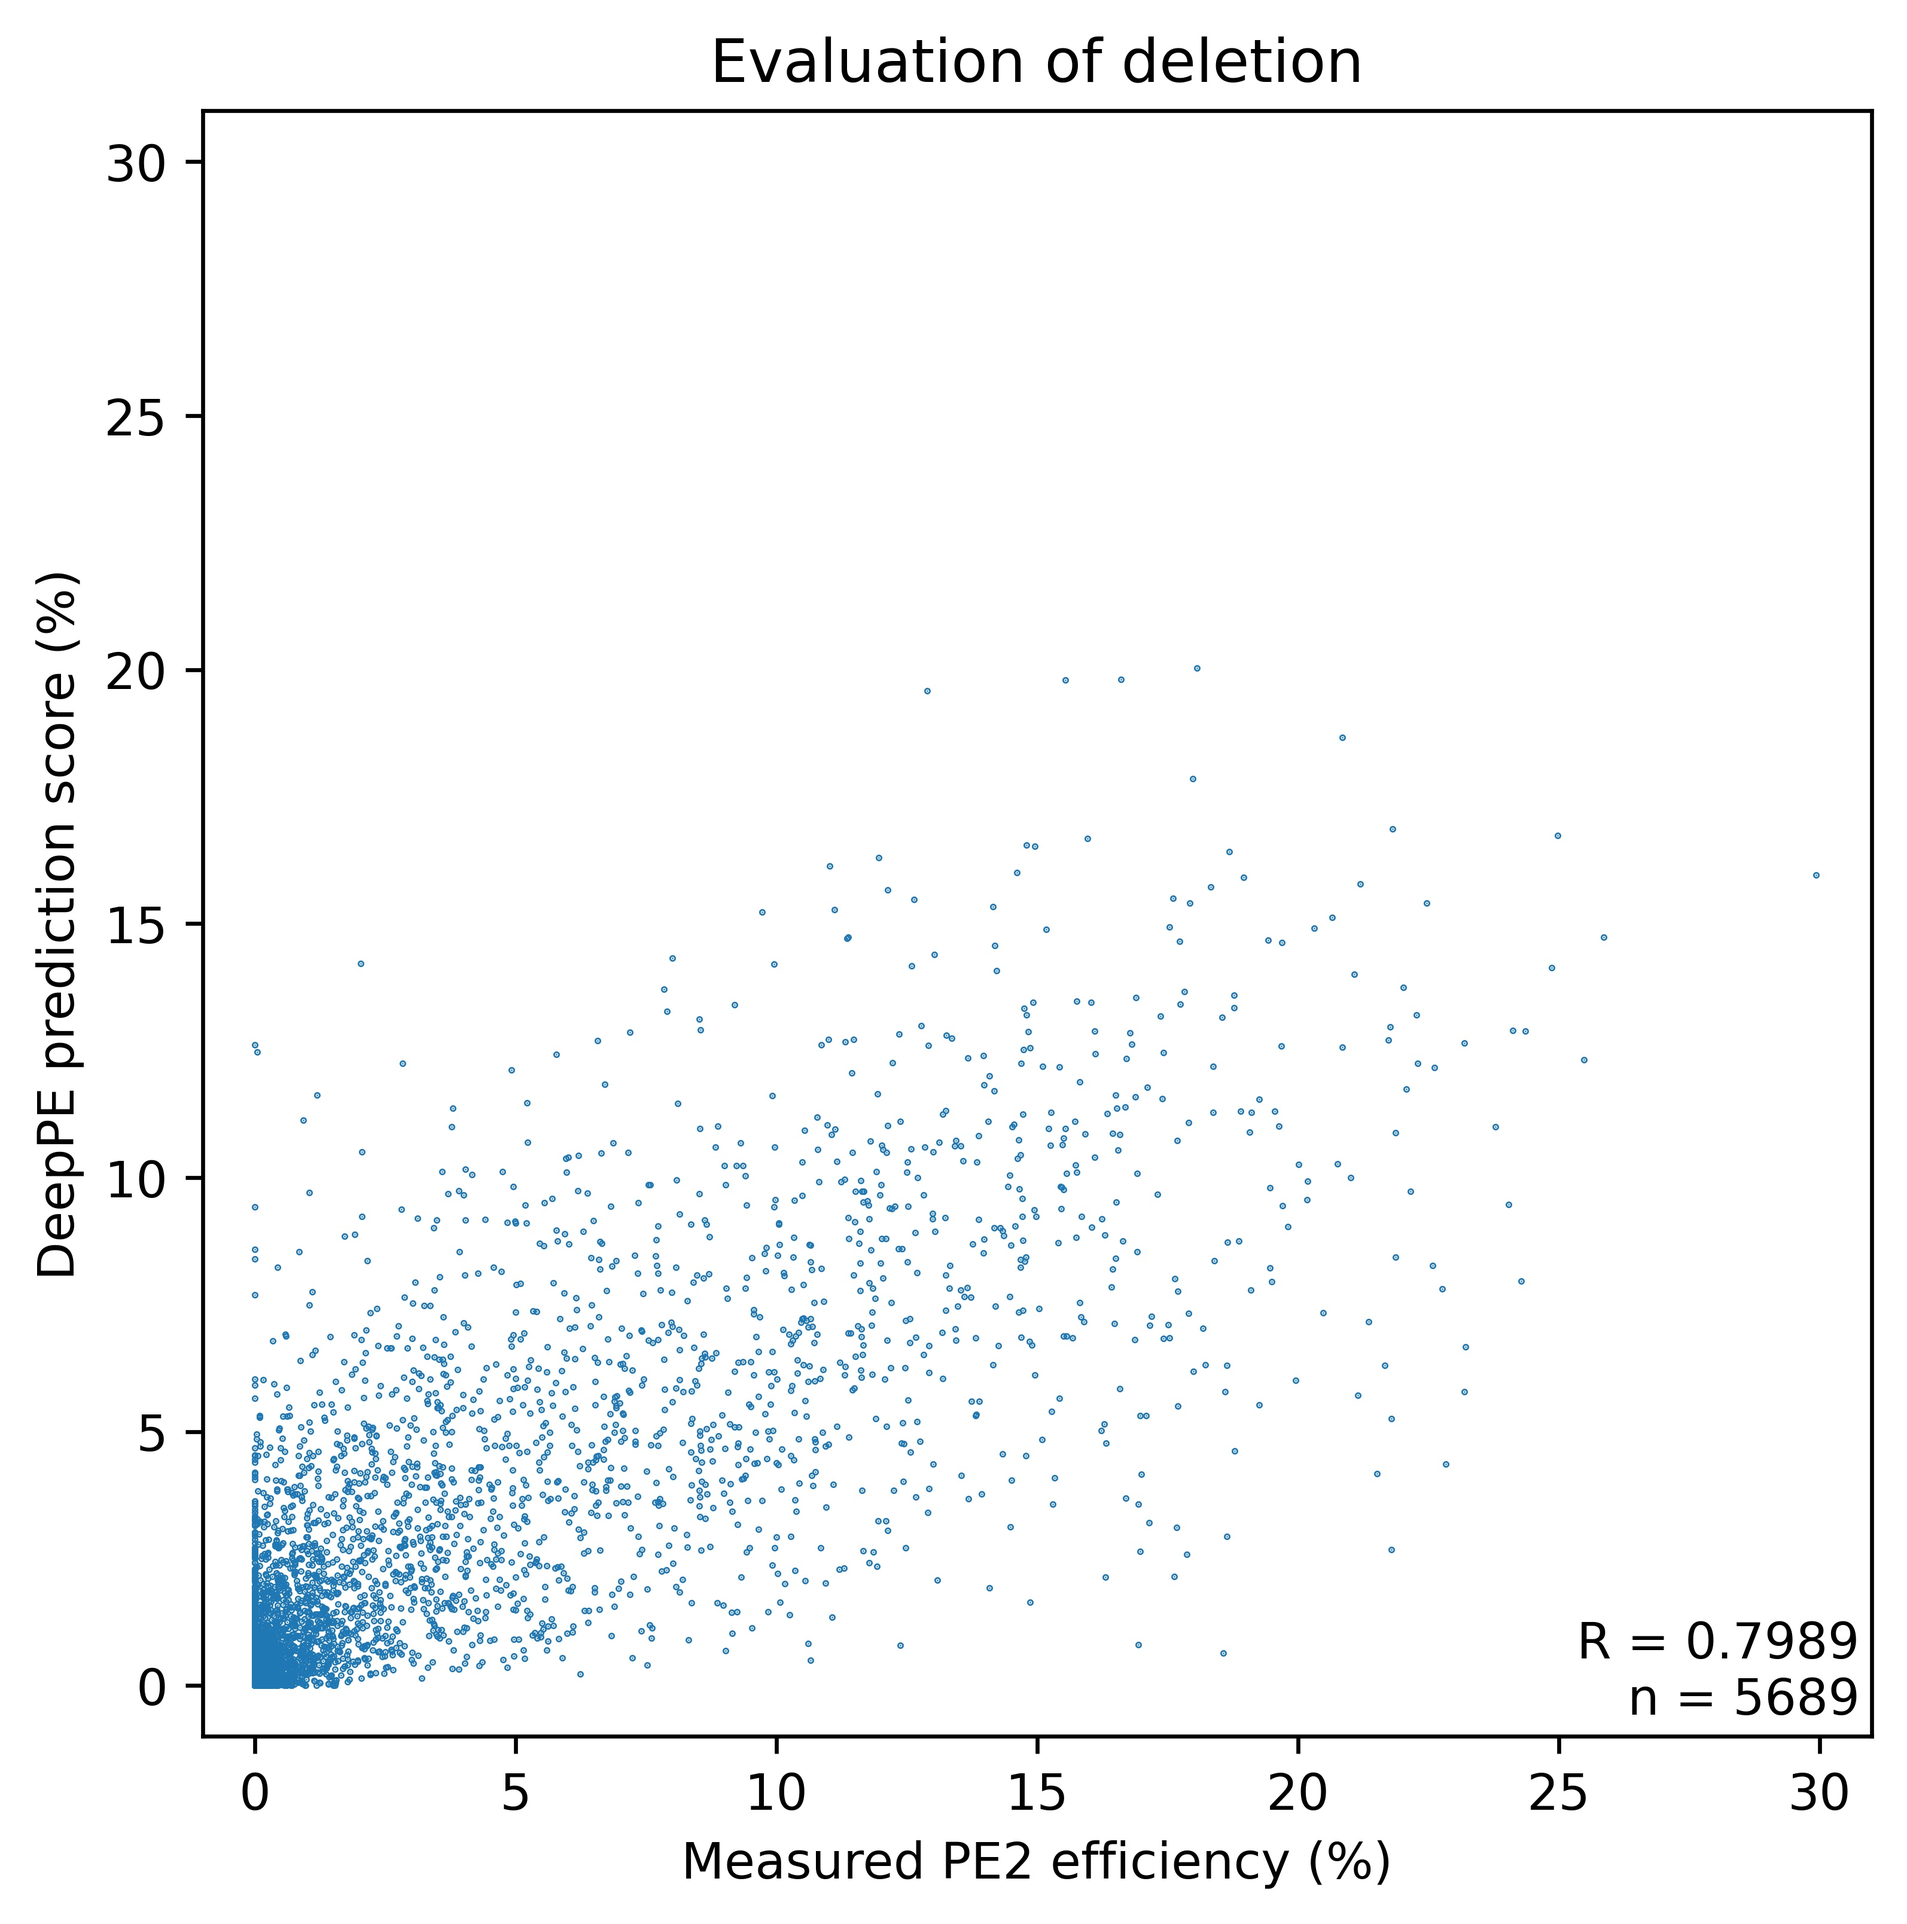
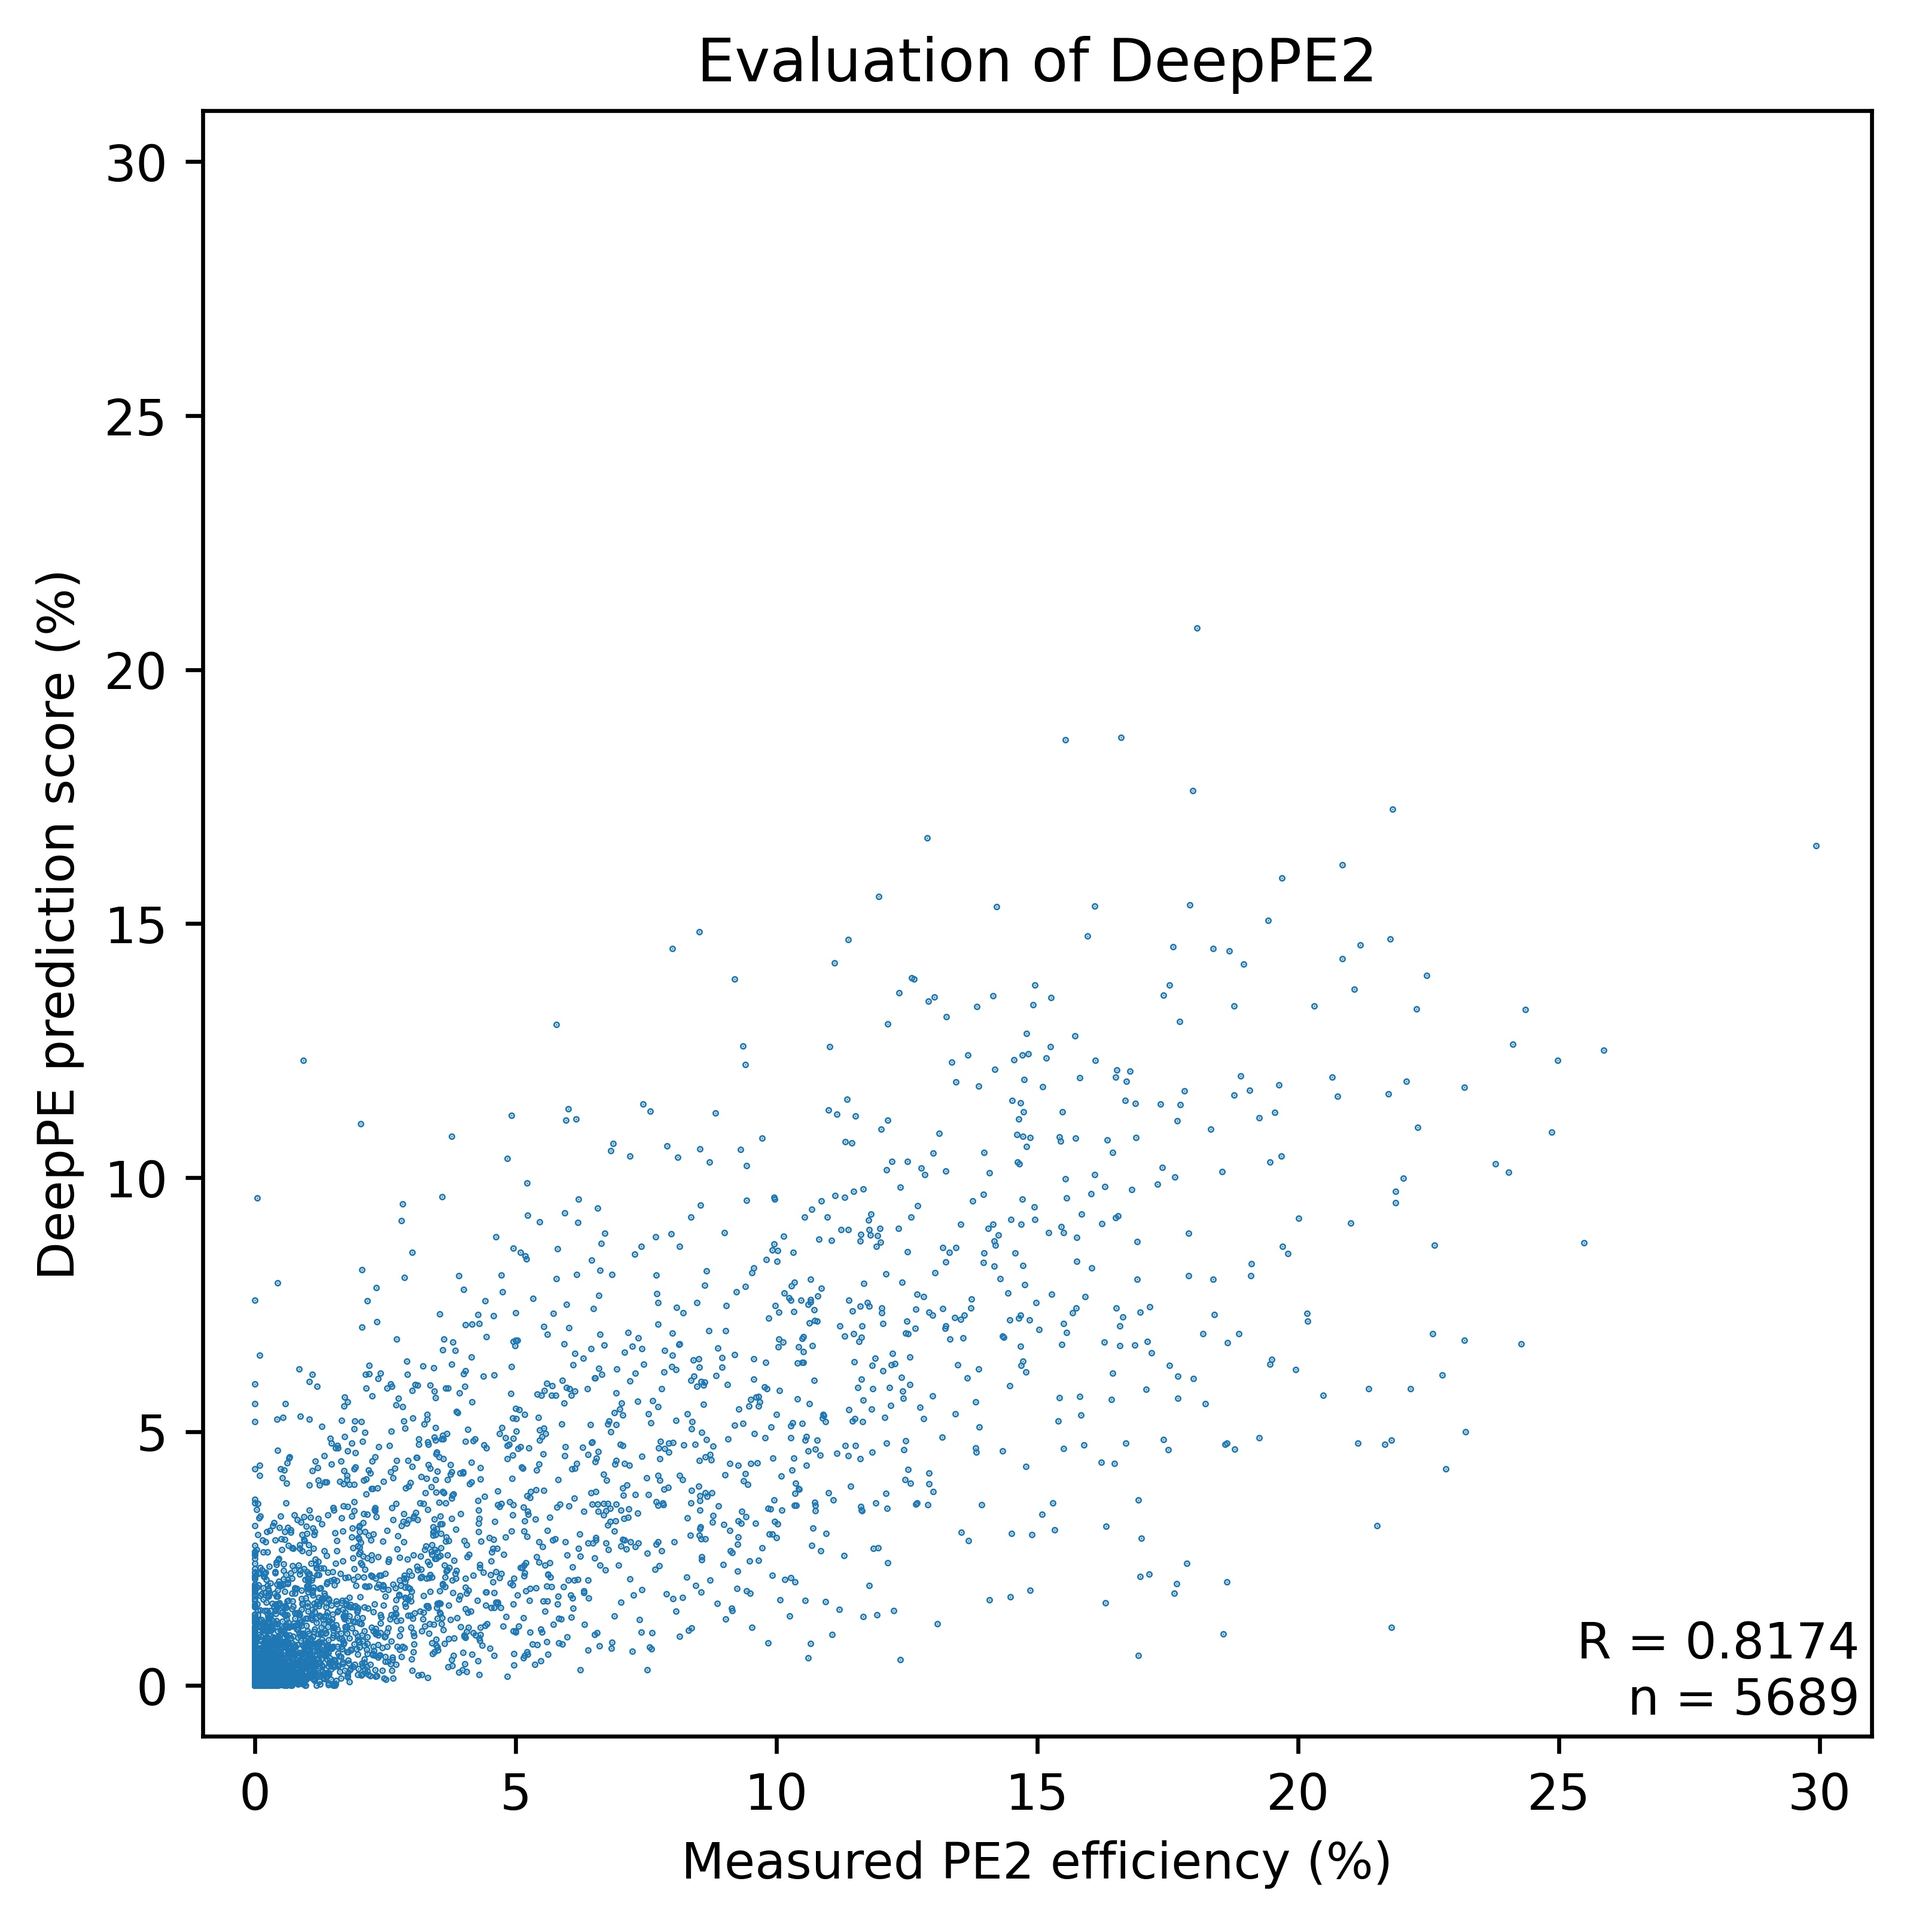
Implemented MSLELoss with softplus.

diff --git a/finetune.py b/finetune.py
@@ -1,0 +1,116 @@
+
+import sys
+import os
+import math
+import copy
+
+import numpy as np
+from numpy.random import shuffle
+import scipy
+import pandas as pd
+
+from typing import Tuple
+
+import torch
+import torch.nn.functional as F
+import torch.nn as nn
+import torch.optim as optim
+
+from torch.utils.data import Dataset, TensorDataset, DataLoader
+from torch.utils.data.sampler import Sampler, SequentialSampler
+from torch.backends import cudnn
+from sklearn.model_selection import train_test_split, KFold
+
+from tqdm import tqdm
+import plot
+import seaborn as sns
+
+import wandb
+
+def finetune_model(model, fold, pf_loader, valid_loader):
+
+    # PARAMETERS FOR FINETUNING
+
+    learning_rate = 5e-5
+    weight_decay = 0e-6
+    T_0 = 10
+    T_mult = 1
+    n_epochs = 10
+
+    best_score = [10., 10., 0.]
+
+    # TO LOCK THE GENE ABSTRACTION MODULE WHILE FINETUNING
+    # for name, param in model.named_parameters():
+    #     if param.requires_grad and name.startswith('c') or name.startswith('r'):
+    #         param.requires_grad = False
+
+    # criterion = BalancedMSELoss(mode='finetuning')
+
+    criterion = nn.MSELoss()
+    optimizer = optim.AdamW(
+        model.parameters(), lr=learning_rate, weight_decay=weight_decay)
+    scheduler = optim.lr_scheduler.CosineAnnealingWarmRestarts(
+        optimizer, T_0=T_0, T_mult=T_mult, eta_min=learning_rate/100)
+
+    n_iters = len(pf_loader)
+
+    for epoch in tqdm(range(n_epochs)):
+        train_loss, valid_loss = [], []
+        train_count, valid_count = 0, 0
+
+        model.train()
+
+        for i, (g, x, y) in enumerate(pf_loader):
+            g = g.permute((0, 3, 1, 2))
+            y = y.reshape(-1, 4)
+
+            pred = model(g, x)
+            loss = criterion(pred, y[:, 0].view(-1))
+
+            optimizer.zero_grad()
+            loss.backward()
+            optimizer.step()
+            scheduler.step(epoch + i / n_iters)
+
+            train_loss.append(x.size(0) * loss.detach().cpu().numpy())
+            train_count += x.size(0)
+
+        model.eval()
+
+        pred_, y_ = None, None
+
+        with torch.no_grad():
+            for i, (g, x, y) in enumerate(valid_loader):
+                g = g.permute((0, 3, 1, 2))
+                y = y.reshape(-1, 4)
+
+                pred = model(g, x)
+                loss = criterion(pred, y[:, 0].view(-1))
+
+                valid_loss.append(x.size(0) * loss.detach().cpu().numpy())
+                valid_count += x.size(0)
+
+                if pred_ is None:
+                    pred_ = pred.detach().cpu().numpy()
+                    y_ = y.detach().cpu().numpy()[:, 0]
+                else:
+                    pred_ = np.concatenate(
+                        (pred_, pred.detach().cpu().numpy()))
+                    y_ = np.concatenate((y_, y.detach().cpu().numpy()[:, 0]))
+
+        train_loss = sum(train_loss) / train_count
+        valid_loss = sum(valid_loss) / valid_count
+
+        SPR = scipy.stats.spearmanr(pred_, y_).correlation
+        
+        if SPR > best_score[2]:
+            best_score = [train_loss, valid_loss, SPR]
+
+            torch.save(model.state_dict(),
+                       'models/final/FM{:02}_auxiliary.pt'.format(fold))
+
+        print('FINETUNING: [FOLD {:02}] [E {:03}/{:03}] : {:.4f} | {:.4f} | {:.4f}'.format(
+            fold, epoch + 1, n_epochs, train_loss, valid_loss, SPR))
+
+    os.rename('models/final/FM{:02}_auxiliary.pt'.format(fold),
+              'models/final/FM{:02}.pt'.format(fold))

diff --git a/DeepPE.py b/DeepPE.py
@@ -5,7 +5,6 @@ import copy
 
 import numpy as np
 from numpy.random import shuffle
-from pyrsistent import b
 import scipy
 import pandas as pd
 
@@ -32,7 +31,6 @@ device = 'cuda:0' if torch.cuda.is_available() else 'cpu'
 
 torch.backends.cudnn.deterministic = True
 torch.backends.cudnn.benchmark = False
-
 
 class GeneInteractionModel(nn.Module):
 
@@ -117,7 +115,7 @@ class BalancedMSELoss(nn.Module):
 
     def forward(self, pred, actual):
         pred = pred.view(-1, 1)
-        y    = actual[:, 0].view(-1, 1)
+        y    = torch.log(actual[:, 0].view(-1, 1) + 1)
 
         l1 = self.mse(pred[actual[:, 1] == 1], y[actual[:, 1] == 1]) * self.factor[0]
         l2 = self.mse(pred[actual[:, 2] == 1], y[actual[:, 2] == 1]) * self.factor[1]
@@ -134,7 +132,7 @@ class ScaledMSELoss(nn.Module):
         super(ScaledMSELoss, self).__init__()
 
     def forward(self, pred, y):
-        return torch.mean(torch.sqrt(1 * 0.5 * y + 1) * (y-pred) ** 2) * 1e-2
+        return torch.mean(torch.sqrt(1 * 0.5 * y + 1) * (y-pred) ** 2)
 
 
 class GeneFeatureDataset(Dataset):
@@ -287,19 +285,19 @@ pf_type = train_PF.loc[:, ['type_sub', 'type_ins', 'type_del']]
 # NORMALIZATION
 
 x_train = (train_features - train_features.mean()) / train_features.std()
-y_train = train_target / train_target.std()
+y_train = train_target
 y_train = pd.concat([y_train, train_type], axis=1)
 x_train = x_train.to_numpy()
 y_train = y_train.to_numpy()
 
 x_test = (test_features - train_features.mean()) / train_features.std()
-y_test = test_target / train_target.std()
+y_test = test_target
 y_test = pd.concat([y_test, test_type], axis=1)
 x_test = x_test.to_numpy()
 y_test = y_test.to_numpy()
 
 x_pf = (pf_features - train_features.mean()) / train_features.std()
-y_pf = pf_target / train_target.std()
+y_pf = pf_target
 y_pf = pd.concat([y_pf, pf_type], axis=1)
 x_pf = x_pf.to_numpy()
 y_pf = y_pf.to_numpy()
@@ -320,7 +318,7 @@ y_pf = torch.tensor(y_pf, dtype=torch.float32, device=device)
 # PARAMS
 
 batch_size = 2048
-learning_rate = 5e-3
+learning_rate = 1e-2
 weight_decay = 5e-2
 T_0 = 10
 T_mult = 1
@@ -330,11 +328,12 @@ n_epochs = 10
 n_models = 1
 finetune = False
 
+
 # TRAINING & VALIDATION
 
 for m in range(n_models):
 
-    random_seed = 1 + m
+    random_seed = m
 
     torch.manual_seed(random_seed)
     torch.cuda.manual_seed(random_seed)
@@ -489,8 +488,6 @@ for fold in range(5):
     model = GeneInteractionModel(
         hidden_size=hidden_size, num_layers=n_layers).to(device)
 
-    # model.load_state_dict(torch.load('models/final/FM{:02}.pt'.format(fold)))
-    # model.load_state_dict(torch.load(models[fold]))
     model.load_state_dict(torch.load('models/' + best_model))
 
     pred_, y_ = None, None
@@ -515,12 +512,13 @@ for fold in range(5):
 
 preds = np.squeeze(np.array(preds))
 preds = np.mean(preds, axis=0)
-preds = preds * train_target.std() #+ train_target.mean()
-y_ = y_ * train_target.std() #+ train_target.mean()
+preds = np.exp(preds) - 1
+y_ = y_
 
 print(scipy.stats.spearmanr(preds, y_).correlation)
 
 preds = pd.DataFrame(preds, columns=['Predicted PE efficiency'])
-preds.to_csv('results/220219_weighted.csv', index=False)
+preds.to_csv('results/220220.csv', index=False)
 
-plot.plot_spearman(preds, y_, 'Evaluation of DeepPE2.jpg')
+plot.plot_spearman(preds, y_, 'plots/Evaluation of DeepPE2.jpg')
+# %%

diff --git a/plot.py b/plot.py
@@ -1,6 +1,6 @@
 import matplotlib.pyplot as plt
 import numpy as np
-import scipy
+import scipy.stats
 
 def plot_spearman(pred: np.ndarray, y: np.ndarray, filename: str):
 
@@ -18,11 +18,11 @@ def plot_spearman(pred: np.ndarray, y: np.ndarray, filename: str):
     ax.set_xlabel("Measured PE2 efficiency (%)")
     ax.set_ylabel("DeepPE prediction score (%)")
 
-    ax.annotate('R = {:.4f}'.format(corr),
+    ax.annotate('R = {:.4f}\nn = {}'.format(corr, len(y)),
                 xy=(1, 0), xycoords='axes fraction',
                 xytext=(-20, 20), textcoords='offset pixels',
                 horizontalalignment='right',
                 verticalalignment='bottom')
 
-    plt.savefig(filename, bbox_inches="tight", dpi=200)
+    plt.savefig(filename, bbox_inches="tight", dpi=600)
     plt.close()
